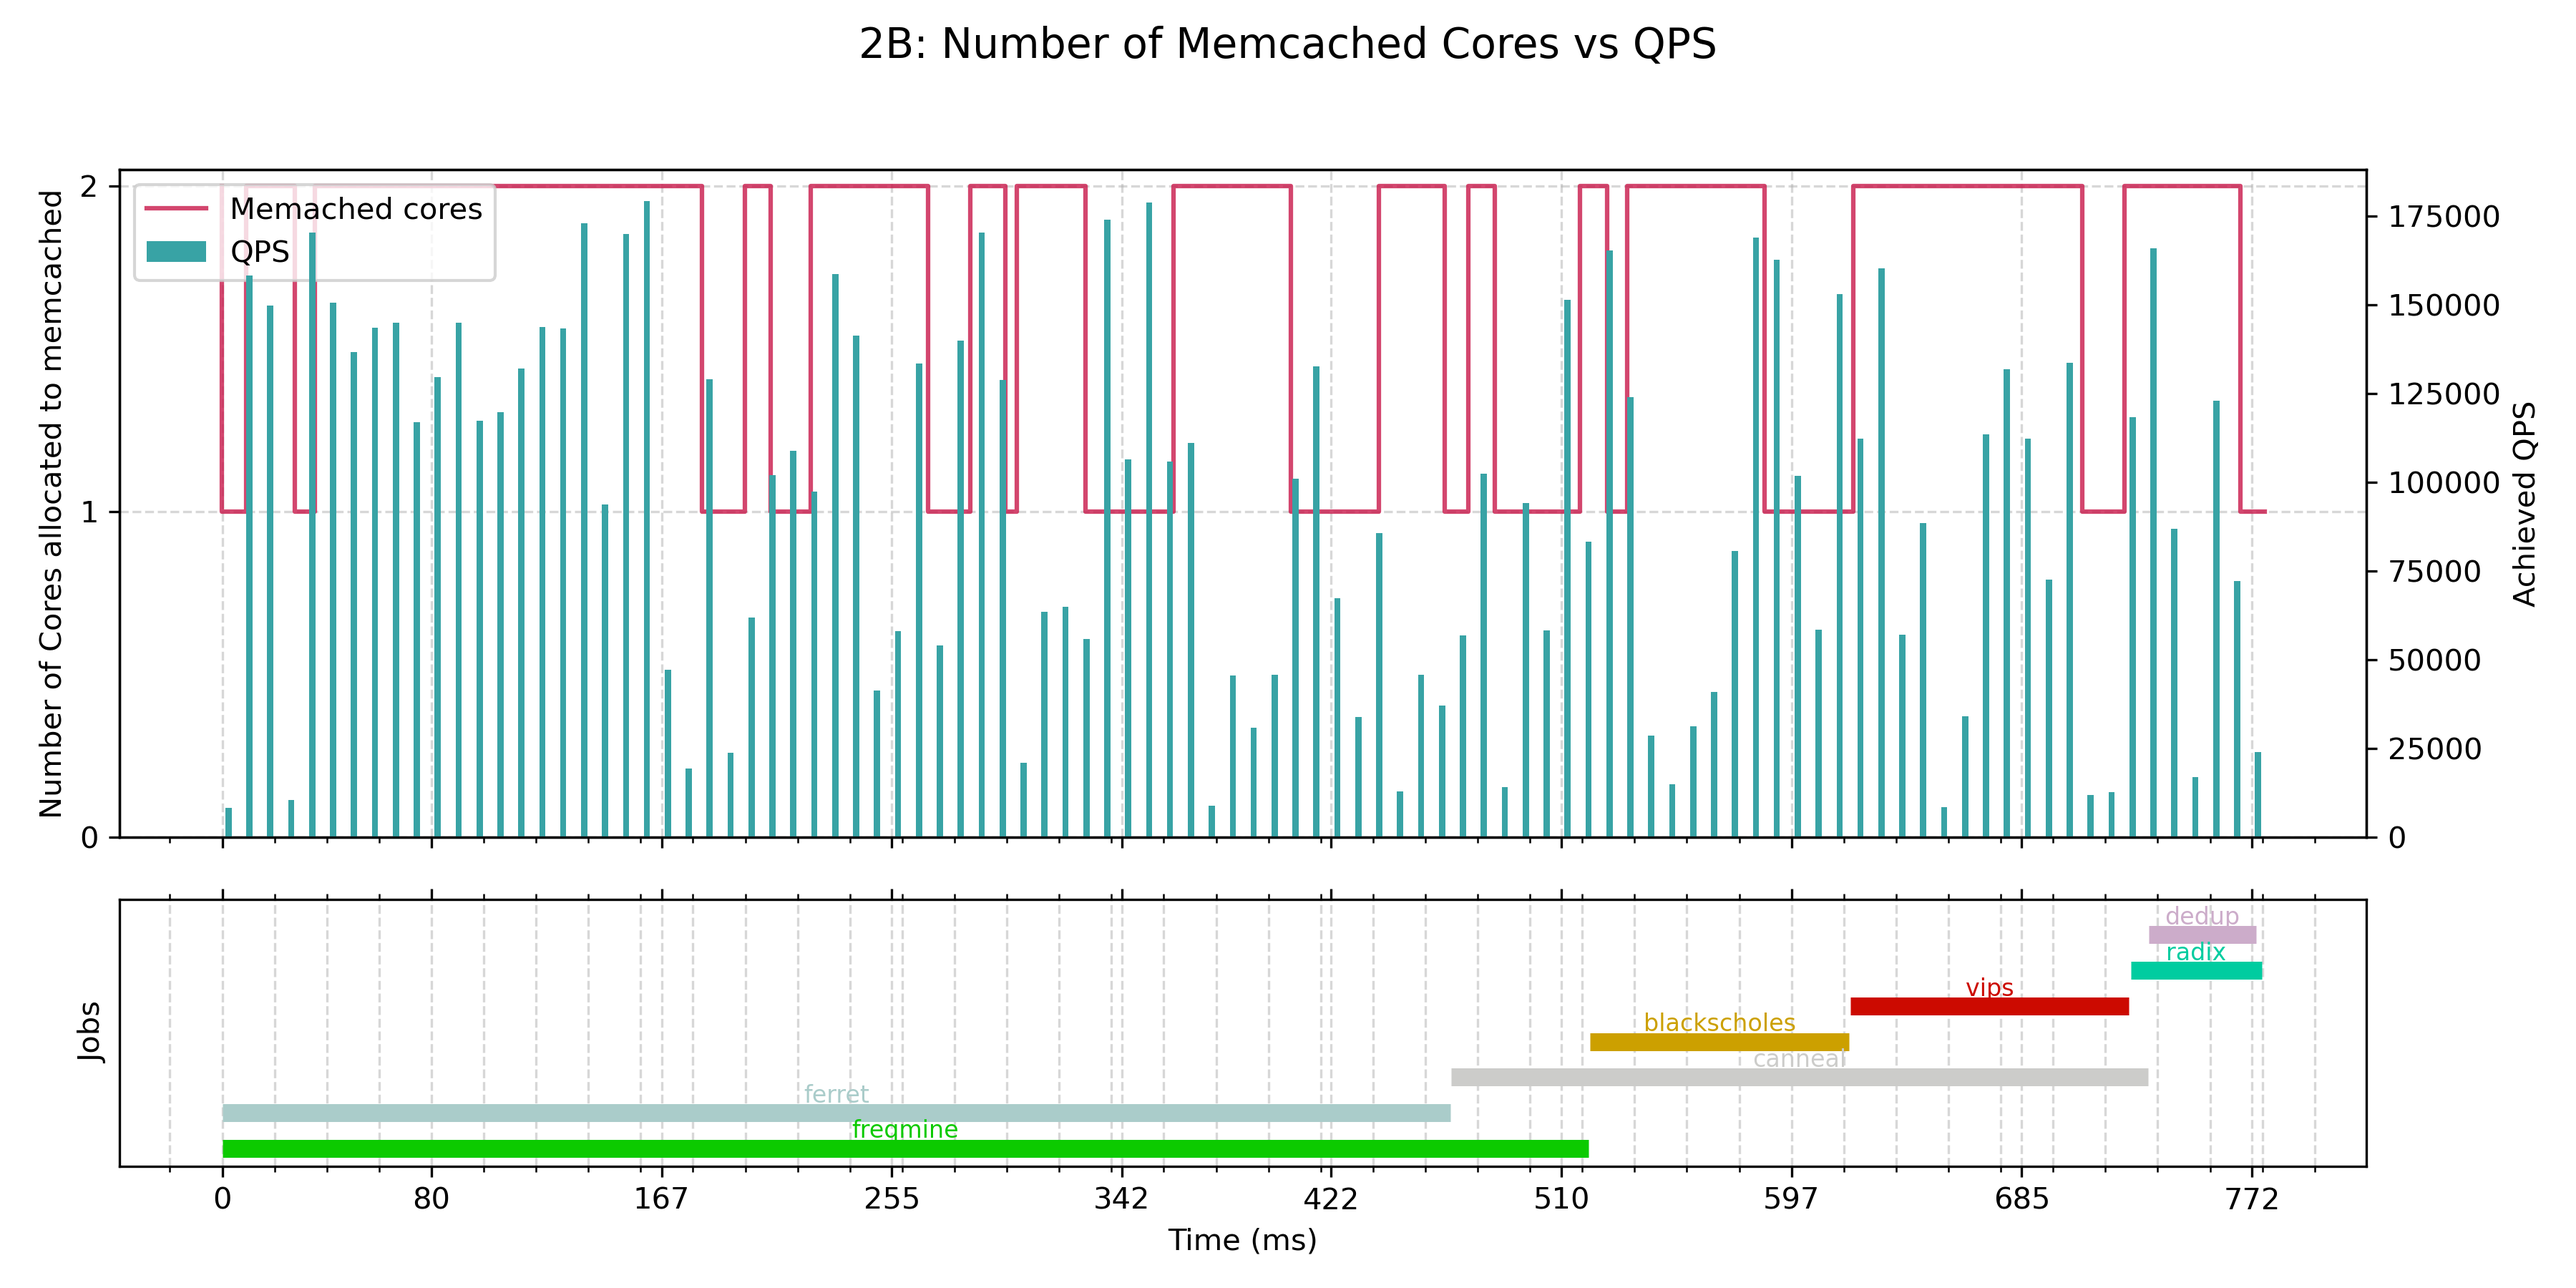
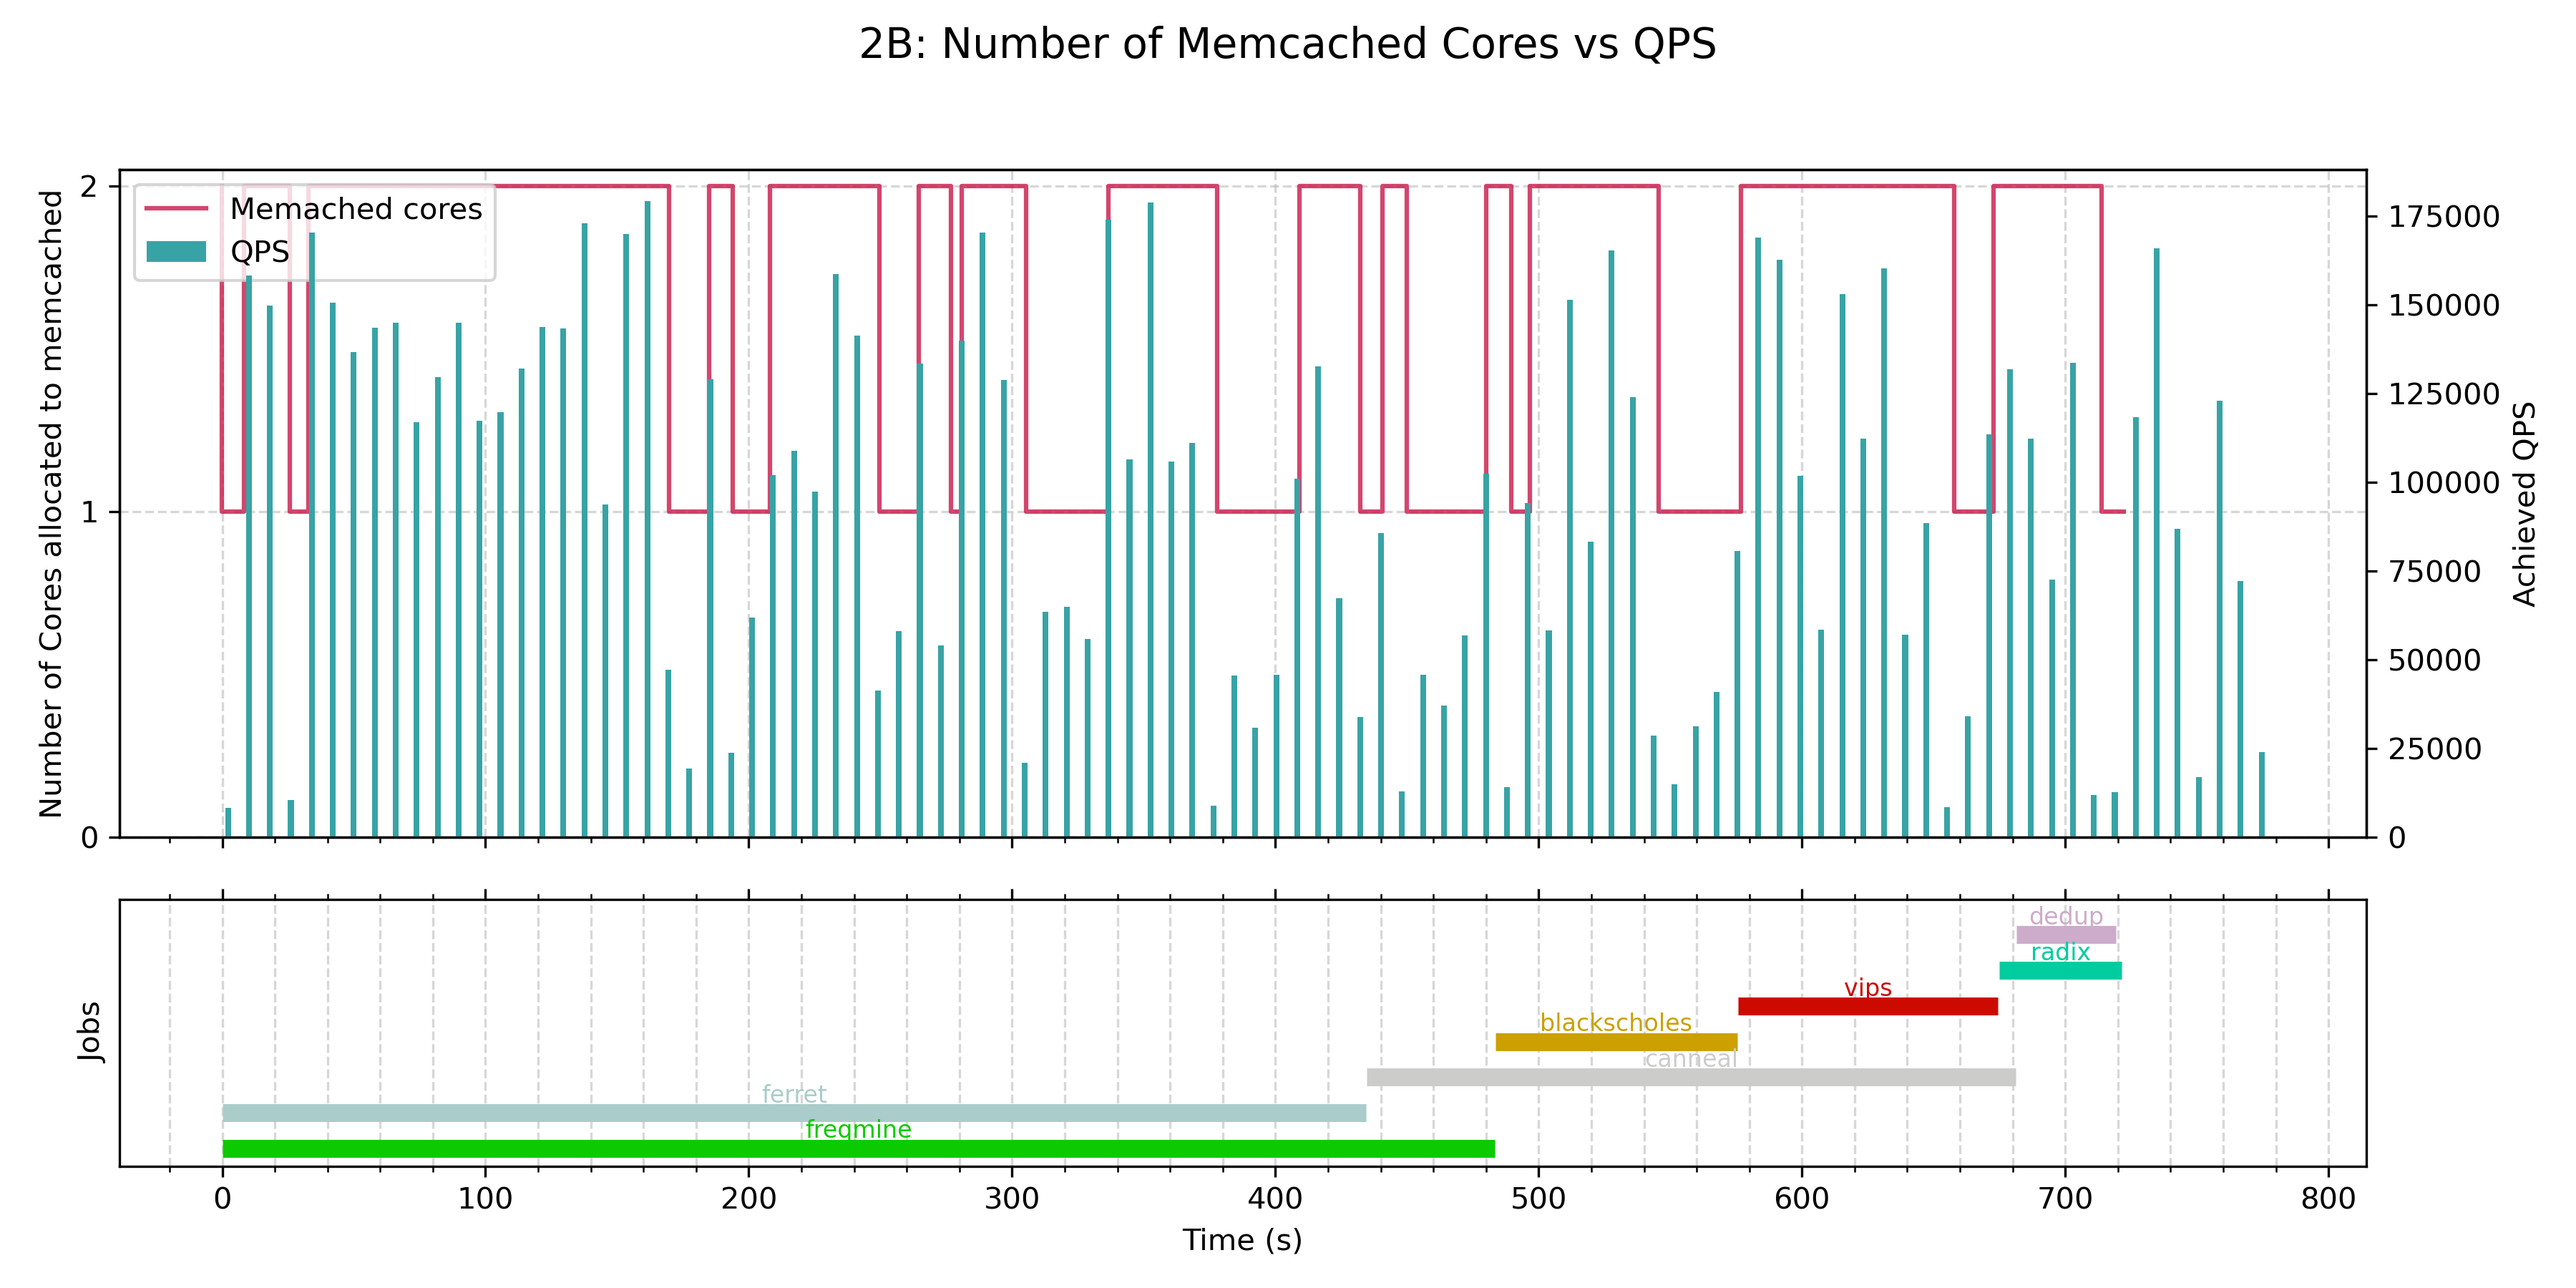
final v

diff --git a/part4/plot/plot_q4.py b/part4/plot/plot_q4.py
@@ -176,7 +176,7 @@ def export_plot_A(p95_df, cpu_df, job_df, folder, run_number, include_cpu=False)
     spacing = 3.0    # Space between pairs of bars
     
     # Create positions for each pair of bars
-    positions = np.arange(len(p95_df)) * (2 * bar_width + spacing)
+    positions = p95_df['start_time'].values
     
     # Define nicer colors
     latency_color = '#c9184a'  # Light red
@@ -196,13 +196,19 @@ def export_plot_A(p95_df, cpu_df, job_df, folder, run_number, include_cpu=False)
     )
     ax1.tick_params(axis='y')
     
-    # Adjust x-ticks to show time in seconds
-    # Map bar positions to actual time values
-    time_labels = p95_df['start_time'].values
-    # Use a subset of positions for readability
-    tick_indices = np.linspace(0, len(positions)-1, 10, dtype=int)
-    ax1.set_xticks(positions[tick_indices])
-    ax1.set_xticklabels([f"{time_labels[i]:.0f}" for i in tick_indices])
+    x_min = positions.min()
+    x_max = positions.max()
+
+    # Round to nearest 100
+    x_start = (x_min // 100) * 100
+    x_end = ((x_max // 100) + 1) * 100
+
+    # Generate ticks every 100 units
+    xticks = np.arange(x_start, x_end + 1, 100)
+
+    # Set ticks and labels
+    ax1.set_xticks(xticks)
+    ax1.set_xticklabels([f"{x:.0f}" for x in xticks])
 
     # Right Y-Axis: QPS
     ax1_2 = ax1.twinx()
@@ -285,7 +291,7 @@ def export_plot_A(p95_df, cpu_df, job_df, folder, run_number, include_cpu=False)
 
     ax2.set_yticks([])
     ax2.set_yticklabels([])
-    ax2.set_xlabel('Time (ms)')
+    ax2.set_xlabel('Time (s)')
     ax2.set_ylabel('Jobs')
     ax2.set_ylim(-1, spacing * len(job_df))
     ax2.grid(True, axis='x', which='both', linestyle='--', alpha=0.5)
@@ -304,14 +310,15 @@ def export_plot_B(p95_df, cpu_df, job_df, memcached_df, folder, run_number, incl
         ncols=1,
         figsize=(12, 6),
         sharex=True,
-        gridspec_kw={'height_ratios': [5, 2]})
+        gridspec_kw={'height_ratios': [5, 2]}
+        )
 
     # Calculate bar positions
     bar_width = 2.2  # Width of each bar
     spacing = 3.0    # Space between pairs of bars
     
     # Create positions for each pair of bars
-    positions = np.arange(len(p95_df)) * (2 * bar_width + spacing)
+    positions = p95_df['start_time'].values
     
     # Define nicer colors
     latency_color = '#c9184a'  # Light red
@@ -330,13 +337,19 @@ def export_plot_B(p95_df, cpu_df, job_df, memcached_df, folder, run_number, incl
     )
     ax1.tick_params(axis='y')
     
-    # Adjust x-ticks to show time in seconds
-    # Map bar positions to actual time values
-    time_labels = p95_df['start_time'].values
-    # Use a subset of positions for readability
-    tick_indices = np.linspace(0, len(positions)-1, 10, dtype=int)
-    ax1.set_xticks(positions[tick_indices])
-    ax1.set_xticklabels([f"{time_labels[i]:.0f}" for i in tick_indices])
+    x_min = positions.min()
+    x_max = positions.max()
+
+    # Round to nearest 100
+    x_start = (x_min // 100) * 100
+    x_end = ((x_max // 100) + 1) * 100
+
+    # Generate ticks every 100 units
+    xticks = np.arange(x_start, x_end + 1, 100)
+
+    # Set ticks and labels
+    ax1.set_xticks(xticks)
+    ax1.set_xticklabels([f"{x:.0f}" for x in xticks])
     ax1.set_yticks([0, 1, 2])
     ax1.set_yticklabels(['0', '1', '2'])
 
@@ -421,7 +434,7 @@ def export_plot_B(p95_df, cpu_df, job_df, memcached_df, folder, run_number, incl
 
     ax2.set_yticks([])
     ax2.set_yticklabels([])
-    ax2.set_xlabel('Time (ms)')
+    ax2.set_xlabel('Time (s)')
     ax2.set_ylabel('Jobs')
     ax2.set_ylim(-1, spacing * len(job_df))
     ax2.grid(True, axis='x', which='both', linestyle='--', alpha=0.5)

diff --git a/part4/plot/plot_q3.py b/part4/plot/plot_q3.py
@@ -176,7 +176,7 @@ def export_plot_A(p95_df, cpu_df, job_df, folder, run_number, include_cpu=False)
     spacing = 3.0    # Space between pairs of bars
     
     # Create positions for each pair of bars
-    positions = np.arange(len(p95_df)) * (2 * bar_width + spacing)
+    positions = p95_df['start_time'].values
     
     # Define nicer colors
     latency_color = '#c9184a'  # Light red
@@ -196,13 +196,19 @@ def export_plot_A(p95_df, cpu_df, job_df, folder, run_number, include_cpu=False)
     )
     ax1.tick_params(axis='y')
     
-    # Adjust x-ticks to show time in seconds
-    # Map bar positions to actual time values
-    time_labels = p95_df['start_time'].values
-    # Use a subset of positions for readability
-    tick_indices = np.linspace(0, len(positions)-1, 10, dtype=int)
-    ax1.set_xticks(positions[tick_indices])
-    ax1.set_xticklabels([f"{time_labels[i]:.0f}" for i in tick_indices])
+    x_min = positions.min()
+    x_max = positions.max()
+
+    # Round to nearest 100
+    x_start = (x_min // 100) * 100
+    x_end = ((x_max // 100) + 1) * 100
+
+    # Generate ticks every 100 units
+    xticks = np.arange(x_start, x_end + 1, 100)
+
+    # Set ticks and labels
+    ax1.set_xticks(xticks)
+    ax1.set_xticklabels([f"{x:.0f}" for x in xticks])
 
     # Right Y-Axis: QPS
     ax1_2 = ax1.twinx()
@@ -285,7 +291,7 @@ def export_plot_A(p95_df, cpu_df, job_df, folder, run_number, include_cpu=False)
 
     ax2.set_yticks([])
     ax2.set_yticklabels([])
-    ax2.set_xlabel('Time (ms)')
+    ax2.set_xlabel('Time (s)')
     ax2.set_ylabel('Jobs')
     ax2.set_ylim(-1, spacing * len(job_df))
     ax2.grid(True, axis='x', which='both', linestyle='--', alpha=0.5)
@@ -311,7 +317,7 @@ def export_plot_B(p95_df, cpu_df, job_df, memcached_df, folder, run_number, incl
     spacing = 3.0    # Space between pairs of bars
     
     # Create positions for each pair of bars
-    positions = np.arange(len(p95_df)) * (2 * bar_width + spacing)
+    positions = p95_df['start_time'].values
     
     # Define nicer colors
     latency_color = '#c9184a'  # Light red
@@ -330,13 +336,19 @@ def export_plot_B(p95_df, cpu_df, job_df, memcached_df, folder, run_number, incl
     )
     ax1.tick_params(axis='y')
     
-    # Adjust x-ticks to show time in seconds
-    # Map bar positions to actual time values
-    time_labels = p95_df['start_time'].values
-    # Use a subset of positions for readability
-    tick_indices = np.linspace(0, len(positions)-1, 10, dtype=int)
-    ax1.set_xticks(positions[tick_indices])
-    ax1.set_xticklabels([f"{time_labels[i]:.0f}" for i in tick_indices])
+    x_min = positions.min()
+    x_max = positions.max()
+
+    # Round to nearest 100
+    x_start = (x_min // 100) * 100
+    x_end = ((x_max // 100) + 1) * 100
+
+    # Generate ticks every 100 units
+    xticks = np.arange(x_start, x_end + 1, 100)
+
+    # Set ticks and labels
+    ax1.set_xticks(xticks)
+    ax1.set_xticklabels([f"{x:.0f}" for x in xticks])
     ax1.set_yticks([0, 1, 2])
     ax1.set_yticklabels(['0', '1', '2'])
 
@@ -421,7 +433,7 @@ def export_plot_B(p95_df, cpu_df, job_df, memcached_df, folder, run_number, incl
 
     ax2.set_yticks([])
     ax2.set_yticklabels([])
-    ax2.set_xlabel('Time (ms)')
+    ax2.set_xlabel('Time (s)')
     ax2.set_ylabel('Jobs')
     ax2.set_ylim(-1, spacing * len(job_df))
     ax2.grid(True, axis='x', which='both', linestyle='--', alpha=0.5)

diff --git a/part4/plot/plot_q1a.py b/part4/plot/plot_q1a.py
@@ -57,7 +57,7 @@ def export_plot():
             combined['QPS_std'] = combined[['QPS_1', 'QPS_2', 'QPS_3']].std(axis=1)
 
             plt.errorbar(combined['QPS_mean'], combined['p95_mean'], xerr=combined['QPS_std'], yerr=combined['p95_std'], 
-                    fmt='-o', capsize=5, label=f"T={T}, C={C}", color=colors[2*(T-1) + C - 1])
+                    fmt='-o', capsize=5, label=f"T={T}, C={C}", color=colors[2*(T-1) + C - 1], linewidth=0.5)
 
     # Labels and grid
     plt.xlabel("Achieved Queries per Second (QPS)")
